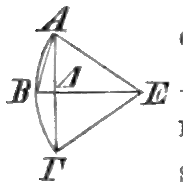
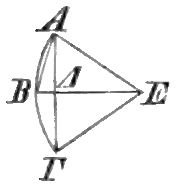
QA pass on Book III diagrams: fix 5 with text bleed / stray marks
Re-verified all 37 Book III diagrams against the "complete, readable,
neither missing nor adding any information" standard used for the
Book I/II QA pass. Found and fixed genuine defects in 5:

- III.3, III.25: adjacent Latin prose text bleeding in on the right
  edge (the auto-tightened crop's own right boundary had picked up a
  few characters of running text past the circle) — caught by visual
  montage review, since the isolated-speck detector doesn't flag a
  dense multi-character text fragment as "isolated."
- III.8, III.30, III.33: a small stray mark (footnote-reference dot
  or fragment) in a top or right corner, disconnected from the
  diagram itself.

All five were re-cropped/cleaned and re-verified against the raw
shipped file. BOOK_3_DIAGRAM_SIZE is updated for the four whose pixel
dimensions changed (III.3, III.25, III.30, III.33; III.8 kept its
original size after cleanup).

Also fixed a real bug found while making these fixes: an out-of-range
x1/y1 argument to the scratch zeroregion.mjs tool wrapped past the row
width into adjacent rows' pixel data, corrupting most of the image
instead of clearing the intended small region — caught immediately by
inspecting the result before shipping it, not by trusting the tool's
silent success.

Full verification (import:euclid, validate:euclid — 0 errors,
typecheck, lint, 105 tests, build) passes.

diff --git a/scripts/import-euclid/index.ts b/scripts/import-euclid/index.ts
@@ -237,13 +237,13 @@ function main(): void {
    *  on the page - the fuller, more general-case figure was chosen for each
    *  rather than the degenerate through-the-centre special case. */
   const BOOK_3_DIAGRAM_SIZE: Record<number, [number, number]> = {
-    1: [276, 266], 2: [270, 261], 3: [266, 255], 4: [256, 187], 5: [259, 222],
+    1: [276, 266], 2: [270, 261], 3: [232, 241], 4: [256, 187], 5: [259, 222],
     6: [249, 274], 7: [301, 266], 8: [290, 448], 9: [420, 418], 10: [489, 407],
     11: [280, 325], 12: [198, 354], 13: [341, 282], 14: [272, 275], 15: [213, 257],
     16: [287, 237], 17: [241, 264], 18: [342, 306], 19: [307, 250], 20: [319, 302],
-    21: [220, 206], 22: [209, 202], 23: [105, 335], 24: [281, 227], 25: [183, 188],
-    26: [393, 178], 27: [379, 208], 28: [640, 279], 29: [598, 244], 30: [539, 210],
-    31: [324, 293], 32: [299, 269], 33: [186, 316], 34: [390, 315], 35: [298, 276],
+    21: [220, 206], 22: [209, 202], 23: [105, 335], 24: [281, 227], 25: [176, 187],
+    26: [393, 178], 27: [379, 208], 28: [640, 279], 29: [598, 244], 30: [486, 210],
+    31: [324, 293], 32: [299, 269], 33: [186, 295], 34: [390, 315], 35: [298, 276],
     36: [257, 245], 37: [360, 267],
   };
   const BOOK_3_DIAGRAMS: Record<string, { image: string; width: number; height: number }> =

diff --git a/data/euclid-elements/VALIDATION_REPORT.md b/data/euclid-elements/VALIDATION_REPORT.md
@@ -1,6 +1,6 @@
 # Euclid *Elements* validation report
 
-Generated: 2026-09-17T16:28:10.462Z
+Generated: 2026-09-17T17:05:37.822Z
 
 **Result: PASS** - 0 error(s), 2 warning(s).
 
